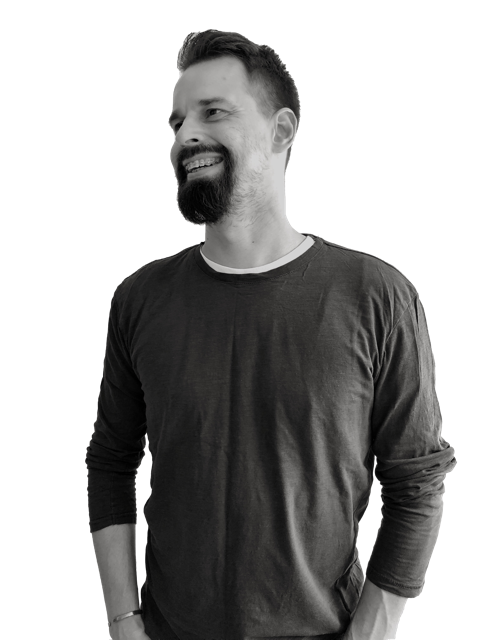
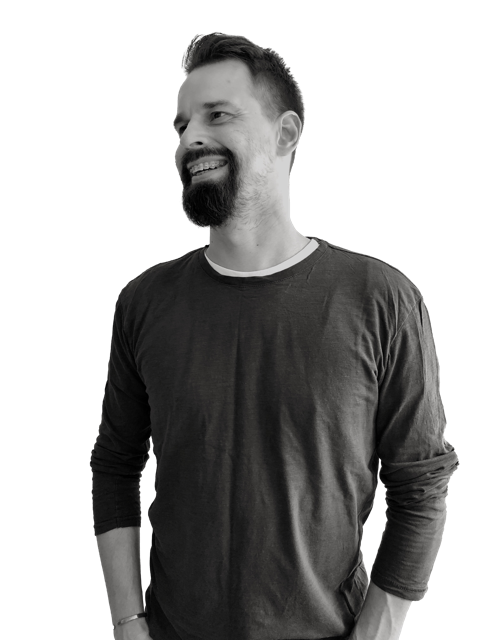
Adding responsiveness to Hero Image and text.

diff --git a/style.css b/style.css
@@ -45,13 +45,20 @@ body {
   line-height: 1.56;
 }
 
+h1,
+h2,
+h3,
+p {
+  margin: 0;
+}
+
 .wrapper {
   /* calc(100% - 2rem) is the width of this wrapper for mobile view as 1 rem (16px) is the space between wrapper and viewport edge on each side */
   width: calc(100% - 2rem);
   /* we use 'rem' instead of pixels because it's more accessible when user change the browser's base font size (16px) */
   max-width: var(--container); /* 1110px */
   /* centering on larger viewport widths */
-  margin-inline: auto;
+  margin: 0 auto;
 }
 
 /* TABLET view - 600px */
@@ -91,7 +98,7 @@ svg {
   min font size - 24px, max font size - 32px, min viewport - 375px, max viewport - 768px 
   clam function is handy not to write media queries just for fonts */
   font-size: 1.5rem;
-  font-size: clamp(1.5rem, 1.02rem + 2.03vw, 2rem);
+  font-size: clamp(1.5rem, 1.02rem + 2.04vw, 2rem);
   color: var(--text-1);
   /* flex: 1 0 100%; */
   line-height: 1;
@@ -141,13 +148,11 @@ a:hover {
 /* TABLET view - 600px */
 @media screen and (min-width: 37.5em) {
   .header__nav {
-    justify-content: flex-start;
+    width: calc(100% - 3.75rem);
+    flex-direction: row;
     justify-content: space-between;
-    align-items: center;
   }
-  .header__home {
-    flex: 0;
-  }
+
   .header__social_wrapper {
     gap: 32px;
   }
@@ -156,14 +161,50 @@ a:hover {
 /* HERO */
 
 .hero__img {
-  width: 348px;
+  width: 174px;
   margin: 0 auto;
   padding-top: 100px;
-  background: rgb(0,0,0);
-  background: rgb(20,20,20);
-  background: linear-gradient(180deg, rgba(20,20,20,1) 0%, rgba(116,116,116,1) 100%);}
+  background: rgb(20, 20, 20);
+  background: linear-gradient(
+    180deg,
+    rgba(20, 20, 20, 1) 18%,
+    rgba(116, 116, 116, 1) 100%
+  );
+}
 
 .hero__img img {
   width: 100%;
   font-size: 0;
+  /* object-fit: cover; */
+}
+
+.hero__text {
+  text-align: center;
+}
+
+.hero__headline {
+  margin: 24px 0;
+  /* Using online fluid typography calculator https://royalfig.github.io/fluid-typography-calculator/ to set up clamp function 
+  min font size - 40px, max font size - 88px, min viewport - 375px, max viewport - 1000px 
+  clam function is handy not to write media queries just for fonts */
+  font-size: clamp(2.5rem, 0.7rem + 7.68vw, 5.5rem);
+  line-height: 1;
+}
+
+.hero__description {
+  margin-bottom: 24px;
+  font-size: var(--fs-18);
+  line-height: 1.3;
+}
+
+.hero__contact {
+  color: var(--text-1);
+  text-transform: uppercase;
+}
+
+/* TABLET view - 600px */
+@media screen and (min-width: 37.5em) {
+  .hero__img {
+    width: 196px;
+  }
 }

diff --git a/index.html b/index.html
@@ -96,15 +96,18 @@
     <main id="main">
       <!-- HERO section -->
       <section class="hero">
-        <div class="wrapper">
+        <div class="wrapper hero__wrapper">
           <div class="hero__img">
             <img src="/assets/images/JANIS_no_background.png" alt="picture of Janis" />
           </div>
-          <h1>Nice to meet you! I'm Janis Karasa.</h1>
-          <p class="hero__description">
-            Based in the Poland, I'm a junior web/front-end developer passionate
-            about building web apps that users love.
-          </p>
+          <div class="hero__text">
+              <h1 class="hero__headline">Nice to meet you! I'm Janis Karasa.</h1>
+              <p class="hero__description">
+                Based in the Poland, I'm a junior web/front-end developer passionate
+                about building web apps that users love.
+              </p>
+              <a href="" class="hero__contact">Contact me</a>
+          </div>
         </div>
       </section>
 
